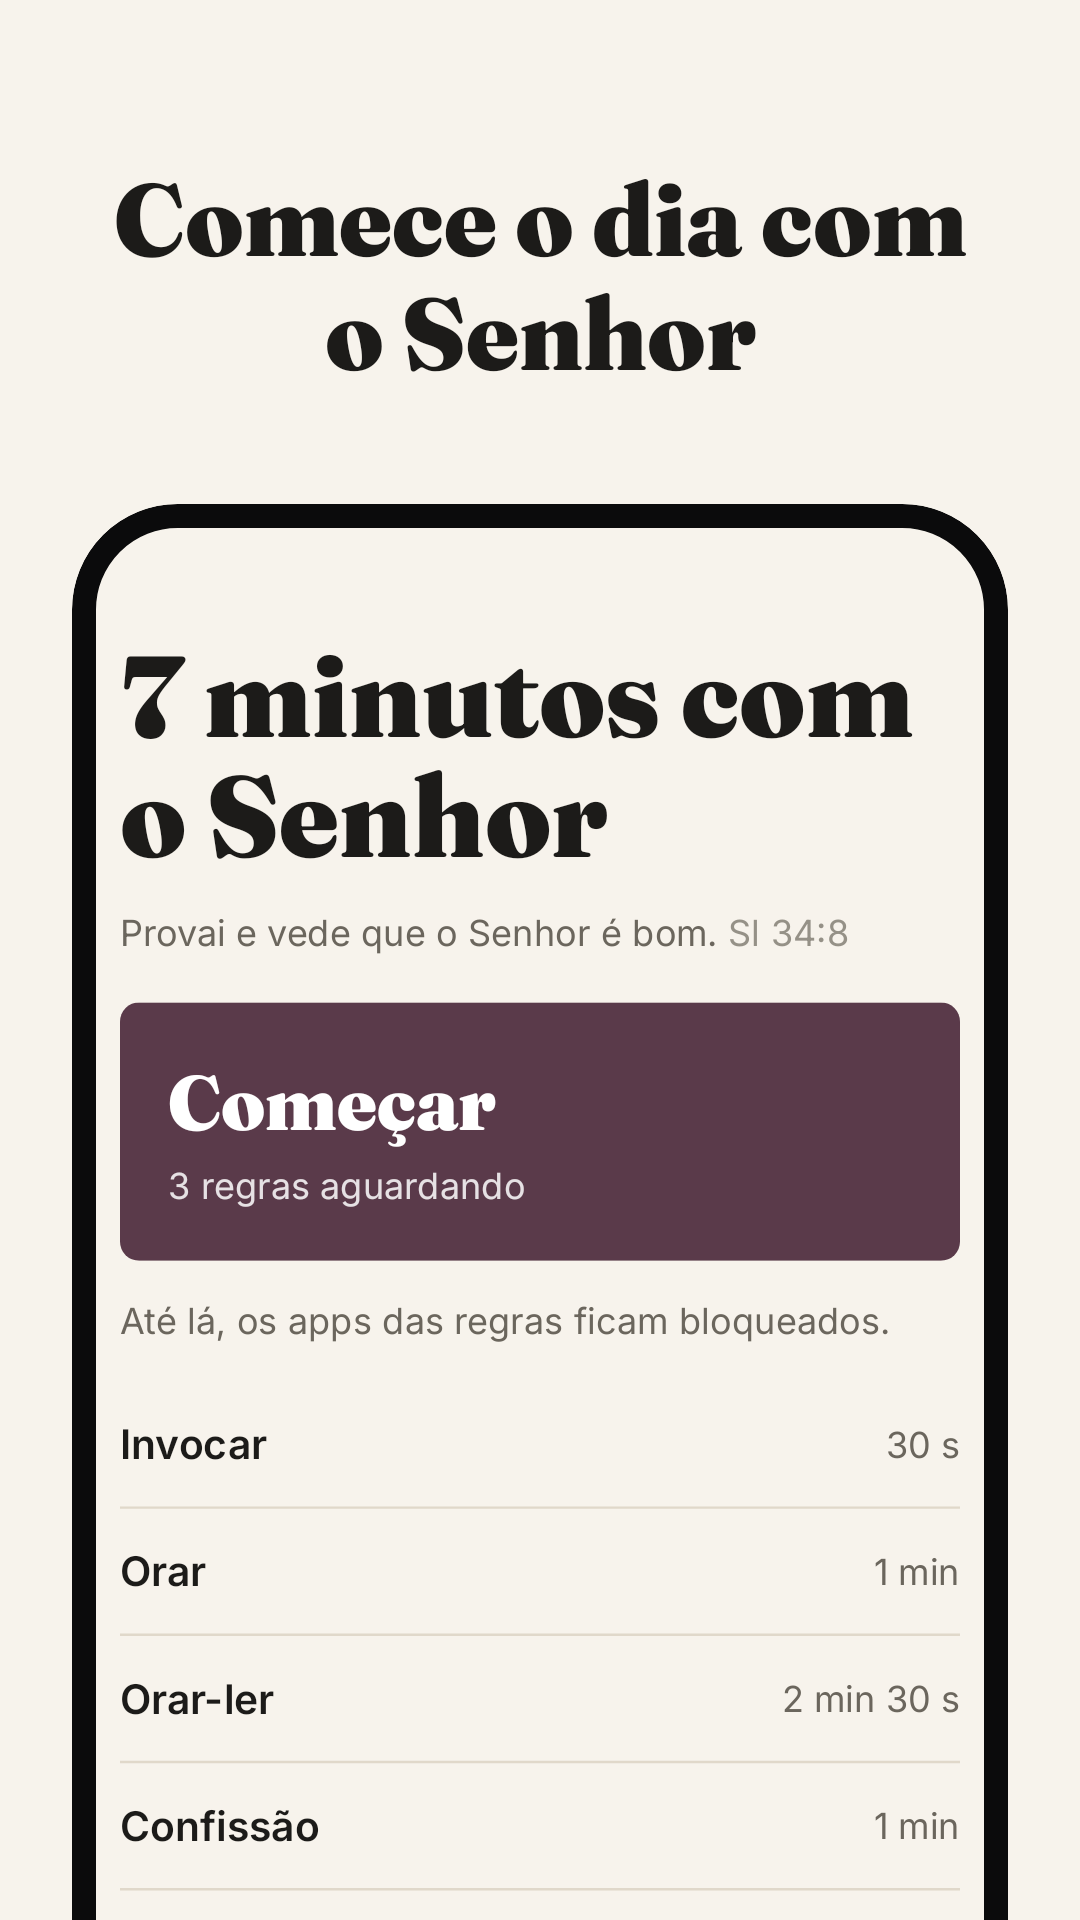
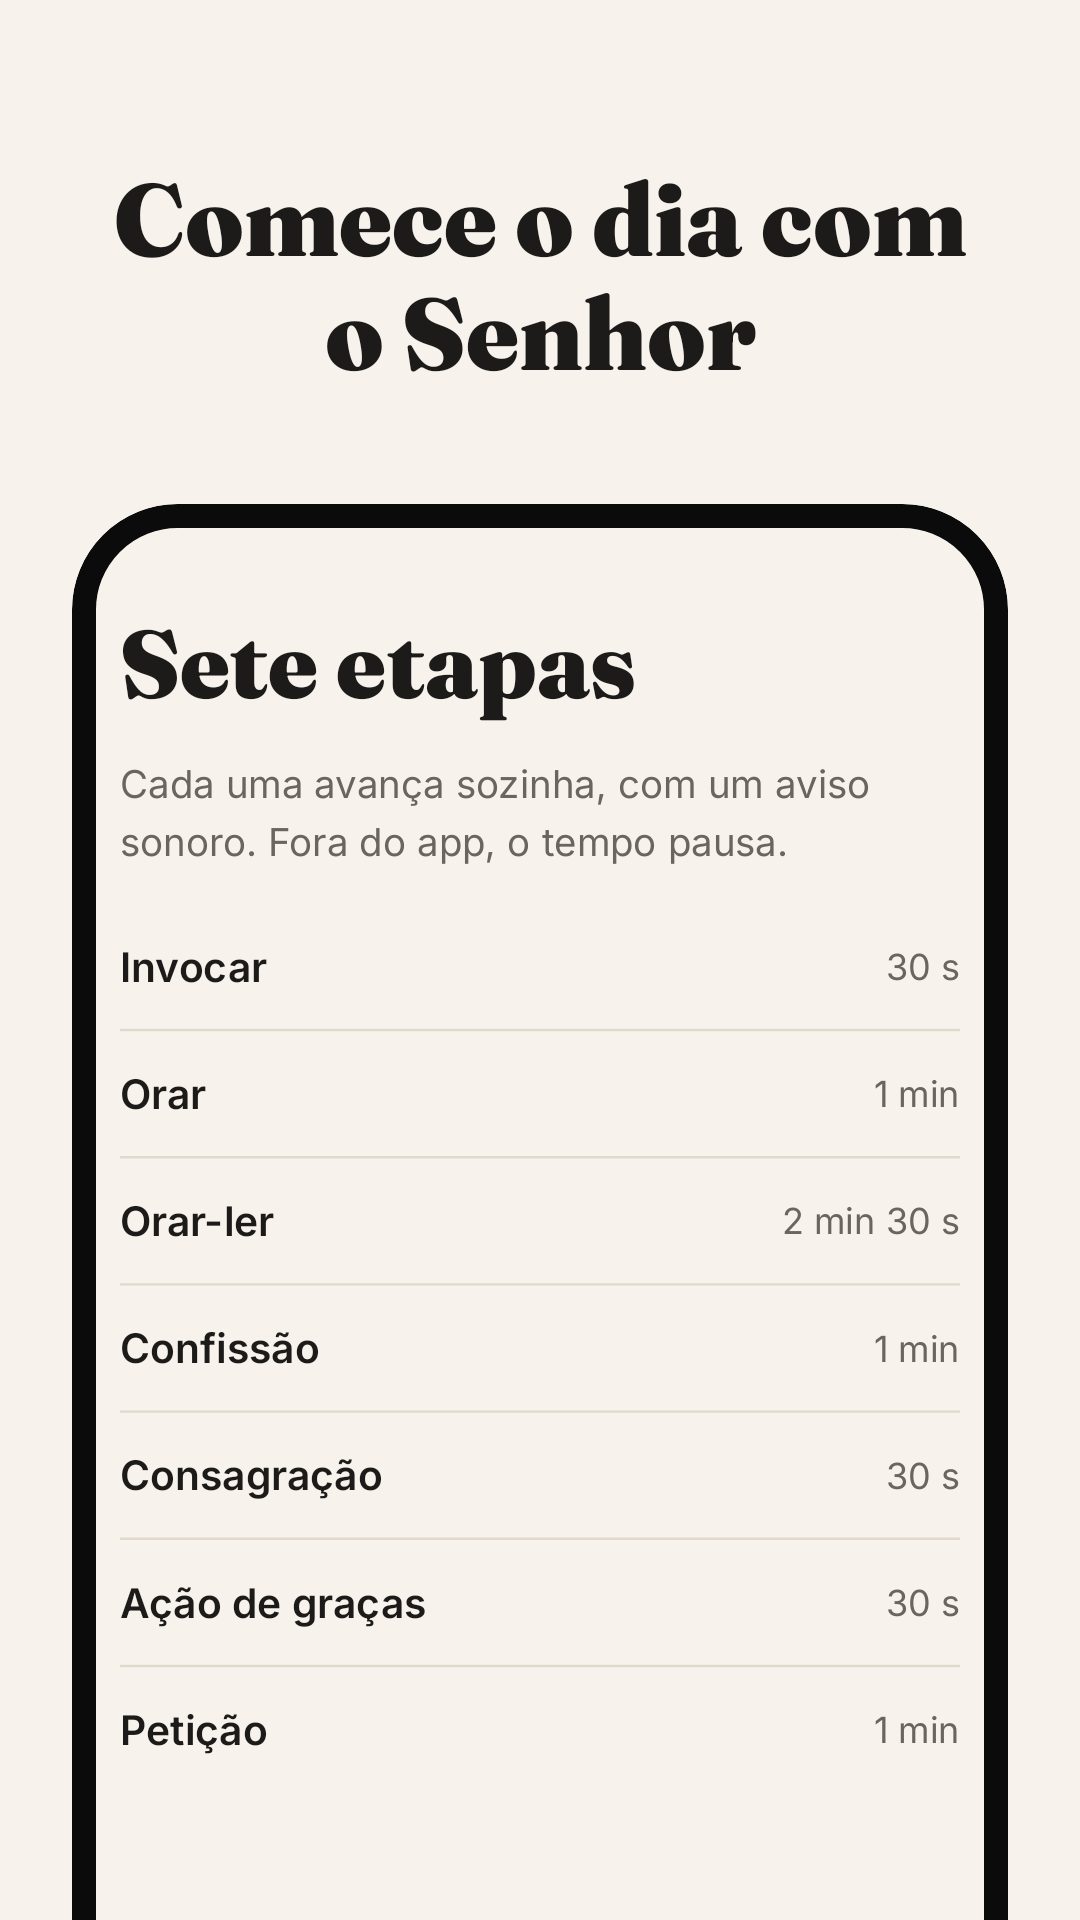
7 minutos: correções da revisão
- A aba espera os dados carregarem, sem piscar o aviso ou o "Começar".
- "Até lá, os apps ficam bloqueados" só aparece se houver regra ativa.
- README corrigido; captura 4 da loja mostra a tela das sete etapas.

diff --git a/app/src/main/java/dev/renova/app/ui/HomeScreen.kt b/app/src/main/java/dev/renova/app/ui/HomeScreen.kt
@@ -74,6 +74,7 @@ import dev.renova.app.domain.Rule
 import dev.renova.app.domain.RuleEngine
 import dev.renova.app.service.BlockerAccessibilityService
 import kotlinx.coroutines.delay
+import kotlinx.coroutines.flow.combine
 import kotlinx.coroutines.launch
 import java.time.LocalDateTime
 
@@ -94,8 +95,9 @@ fun HomeScreen(
     val position by store.biblePosition.collectAsState(initial = BiblePosition())
     val chaptersRead by store.chaptersRead.collectAsState(initial = 0)
     val editUnlockUntil by store.editUnlockUntil.collectAsState(initial = 0L)
-    val devotionDoneDay by store.devotionDoneDay.collectAsState(initial = null)
-    val devotionEnabled by store.devotionEnabled.collectAsState(initial = false)
+    // Nulo até o DataStore carregar, para a aba dos 7 minutos não piscar o estado errado.
+    val devotion by remember { store.devotionEnabled.combine(store.devotionDoneDay) { on, day -> on to day } }
+        .collectAsState(initial = null)
     val tab = selectedTab
     val update by store.availableUpdate.collectAsState(initial = null)
     val scope = rememberCoroutineScope()
@@ -230,8 +232,9 @@ fun HomeScreen(
                         }
                     }
                 }
-                HomeTab.DEVOTION -> {
+                HomeTab.DEVOTION -> devotion?.let { (devotionEnabled, devotionDoneDay) ->
                     val devotionDone = Devotion.isDone(devotionDoneDay, LocalDateTime.now())
+                    val hasTargets = rules.any { it.enabled }
                     item {
                         DevotionTile(
                             done = devotionDone,
@@ -245,7 +248,7 @@ fun HomeScreen(
                             text = "Se quiser, o Renova bloqueia os apps das regras até você ter seu tempo com o Senhor",
                             action = "Ativar",
                         ) { scope.launch { store.setDevotionEnabled(true) } }
-                    } else if (!devotionDone) item {
+                    } else if (!devotionDone && hasTargets) item {
                         Text(
                             "Até lá, os apps das regras ficam bloqueados.",
                             style = MaterialTheme.typography.bodyMedium,

diff --git a/app/src/testGithubDebug/java/dev/renova/app/StoreImagesTest.kt b/app/src/testGithubDebug/java/dev/renova/app/StoreImagesTest.kt
@@ -55,6 +55,7 @@ import dev.renova.app.ui.Fraunces
 import dev.renova.app.ui.HomeScreen
 import dev.renova.app.ui.HomeTab
 import dev.renova.app.ui.Inter
+import dev.renova.app.ui.Intro
 import dev.renova.app.ui.RuleEditorScreen
 import dev.renova.app.ui.SettingsScreen
 import kotlinx.coroutines.runBlocking
@@ -158,11 +159,8 @@ class StoreImagesTest {
         }
     }
 
-    @Test fun seteMinutos() {
-        allSet(); runBlocking { AppStore.get(context).setDevotionEnabled(true) }
-        shot("4-sete-minutos", "Comece o dia com o Senhor") {
-            HomeScreen(HomeTab.DEVOTION, {}, {}, {}, {})
-        }
+    @Test fun seteMinutos() = shot("4-sete-minutos", "Comece o dia com o Senhor") {
+        Box(Modifier.padding(top = 32.dp)) { Intro {} }
     }
 
     @Test fun editor() = shot("5-editor", "Limite e horários do seu jeito") {

diff --git a/app/src/main/java/dev/renova/app/ui/DevotionActivity.kt b/app/src/main/java/dev/renova/app/ui/DevotionActivity.kt
@@ -133,7 +133,7 @@ private fun DevotionScreen(onClose: () -> Unit) {
 }
 
 @Composable
-private fun Intro(onStart: () -> Unit) {
+internal fun Intro(onStart: () -> Unit) {
     Column(Modifier.fillMaxSize().navigationBarsPadding().padding(horizontal = 20.dp)) {
         Column(Modifier.weight(1f).verticalScroll(rememberScrollState()), verticalArrangement = Arrangement.spacedBy(16.dp)) {
             Text("Sete etapas", style = MaterialTheme.typography.displaySmall)

diff --git a/README.md b/README.md
@@ -18,10 +18,11 @@ regra exige uma liberação por capítulos — o versículo avulso não vale par
 
 ## 7 minutos com o Senhor
 
-Se você ativar o aviso na aba dos 7 minutos, todos os apps das regras ativas ficam bloqueados todo dia até
-você fazer os **7 minutos com o Senhor** (o dia recomeça às 4h), mesmo fora do horário de bloqueio ou dentro
-do limite. O bloqueio vem desligado; para desligá-lo depois, é preciso ler um capítulo, nas Configurações. As liberações por leitura não
-valem para isso. São sete etapas guiadas, cada
+O Renova pode bloquear todos os apps das regras ativas todo dia até você fazer os **7 minutos com o
+Senhor** (o dia recomeça às 4h), mesmo fora do horário de bloqueio ou dentro do limite. As liberações por
+leitura não pulam esse bloqueio. Ele vem desligado: para ligar, toque em "Ativar" na aba dos 7 minutos ou use
+"Bloquear até fazer" nas Configurações. Desligar pede a leitura de um capítulo. Quem já fazia os 7 minutos
+antes da v1.10 continua com o bloqueio ligado. São sete etapas guiadas, cada
 uma com seu tempo, que avançam sozinhas com um aviso sonoro (o tempo pausa fora do app):
 
 | Etapa | Tempo |
